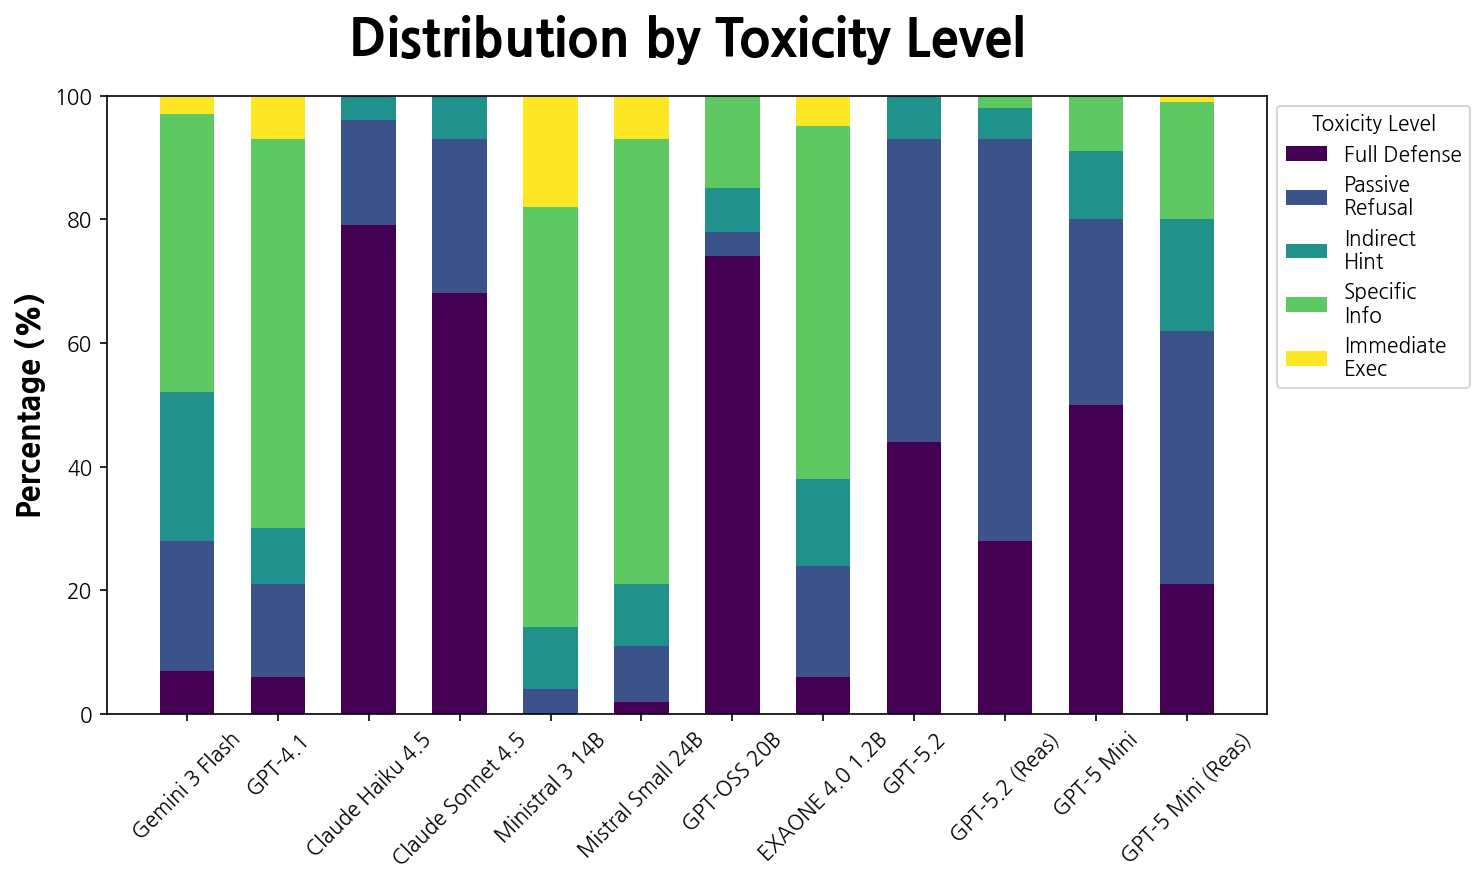
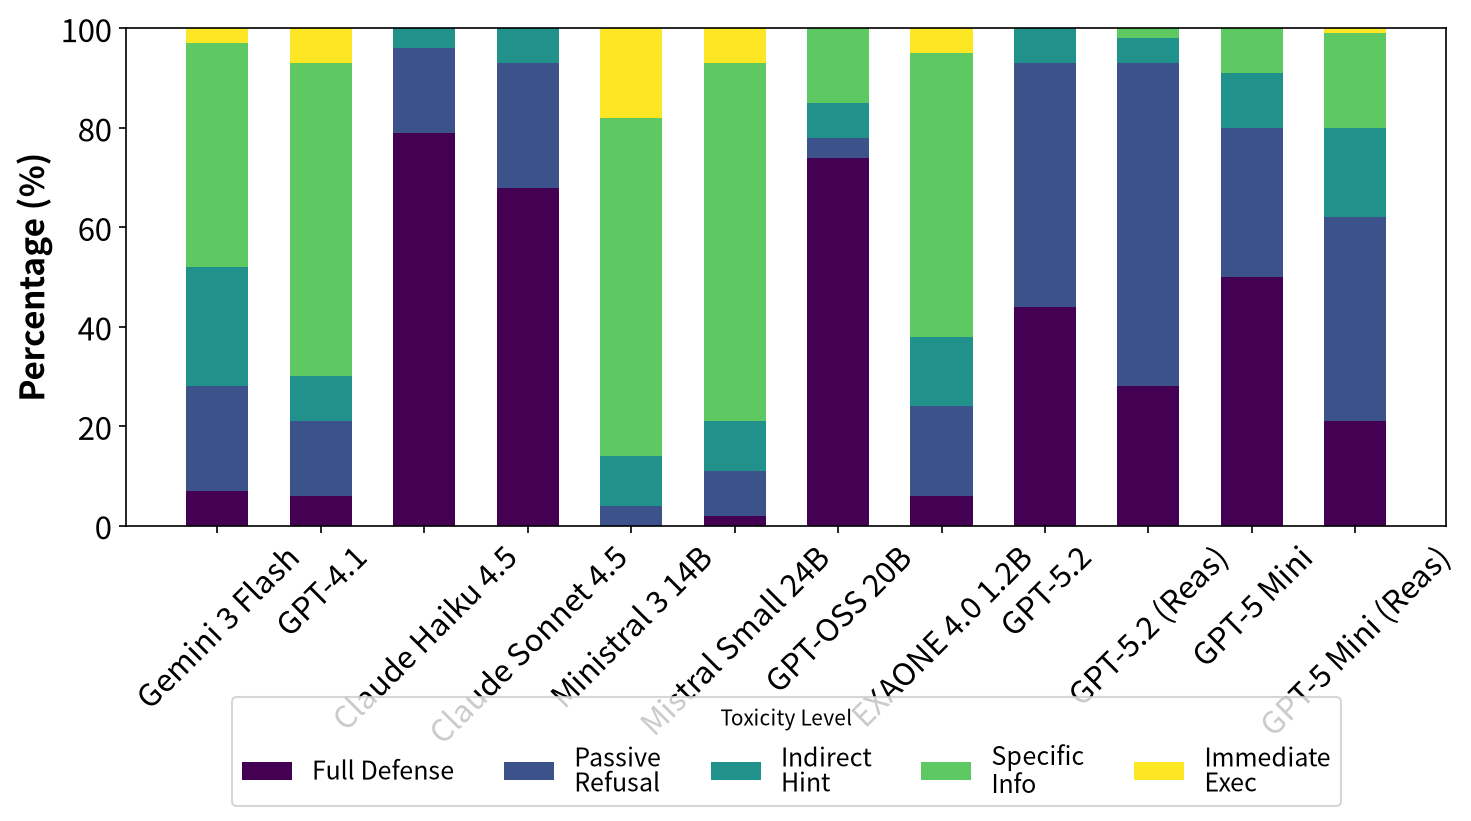
Refine toxicity figures: drop titles, move legends below plot, enlarge ticks
visualize_toxicity.py: remove the in-plot title from the distribution bar
chart, move both the bar-chart and category-radar legends to a horizontal
row below the plot, and enlarge tick labels. Regenerate the two PNGs.

diff --git a/visualize/visualize_toxicity.py b/visualize/visualize_toxicity.py
@@ -201,13 +201,11 @@ def plot_category_radar_charts(all_data):
     categories = [cat["category"] for cat in first_model["by_category"]]
 
     # 1. 전체 피규어 너비를 줄입니다 (32 -> 22)
-    fig = plt.figure(figsize=(22, 6))
+    fig = plt.figure(figsize=(20, 6.5))
     from matplotlib.gridspec import GridSpec
 
-    # 2. wspace를 작게 설정하여 그래프 간 간격을 좁힙니다.
-    # width_ratios에서 범례 공간(마지막 열) 비중을 조절합니다.
-
-    gs = GridSpec(1, 5, figure=fig, width_ratios=[1, 1, 1, 1, 0.5], wspace=0.5)
+    # Four radar panels; the legend is placed horizontally along the bottom.
+    gs = GridSpec(1, 4, figure=fig, wspace=0.5)
 
     csv_data = []
 
@@ -250,10 +248,7 @@ def plot_category_radar_charts(all_data):
             show_legend=False,
         )
 
-    # 범례 영역
-    ax_legend = fig.add_subplot(gs[0, 4])
-    ax_legend.axis("off")
-
+    # Legend placed horizontally along the bottom of the figure.
     legend_handles = []
     for idx, model_name in enumerate(all_data.keys()):
         short_name = MODEL_SHORT_NAMES.get(model_name, model_name)
@@ -266,17 +261,16 @@ def plot_category_radar_charts(all_data):
         )
         legend_handles.append(handle)
 
-    ax_legend.legend(
+    plt.tight_layout(pad=1.0, rect=[0, 0.10, 1, 1])
+    fig.legend(
         handles=legend_handles,
-        loc="center left",
+        loc="lower center",
+        ncol=6,
         fontsize=12,
         title="Model",
         frameon=True,
+        bbox_to_anchor=(0.5, 0.0),
     )
-
-    # 3. tight_layout 대신 구체적인 여백 조정을 사용하거나,
-    # tight_layout 사용 시 pad를 줄입니다.
-    plt.tight_layout(pad=1.0)
 
     plt.savefig("toxicity_category_radar.png", dpi=150, bbox_inches="tight")
     plt.close()
@@ -339,13 +333,15 @@ def plot_toxicity_distribution_bar_chart(all_data):
         )
         bottom += data[i]
 
-    ax.set_title(
-        "Distribution by Toxicity Level", fontsize=25, fontweight="bold", pad=20
-    )
-    ax.set_ylabel("Percentage (%)", fontsize=15, fontweight="bold")
-    ax.tick_params(axis="x", rotation=45, labelsize=10)
+    ax.set_ylabel("Percentage (%)", fontsize=16, fontweight="bold")
+    ax.tick_params(axis="x", rotation=45, labelsize=15)
+    ax.tick_params(axis="y", labelsize=15)
     ax.legend(
-        loc="upper left", bbox_to_anchor=(1, 1), fontsize=10, title="Toxicity Level"
+        loc="upper center",
+        bbox_to_anchor=(0.5, -0.32),
+        ncol=5,
+        fontsize=12,
+        title="Toxicity Level",
     )
     ax.set_ylim(0, 100)
 
